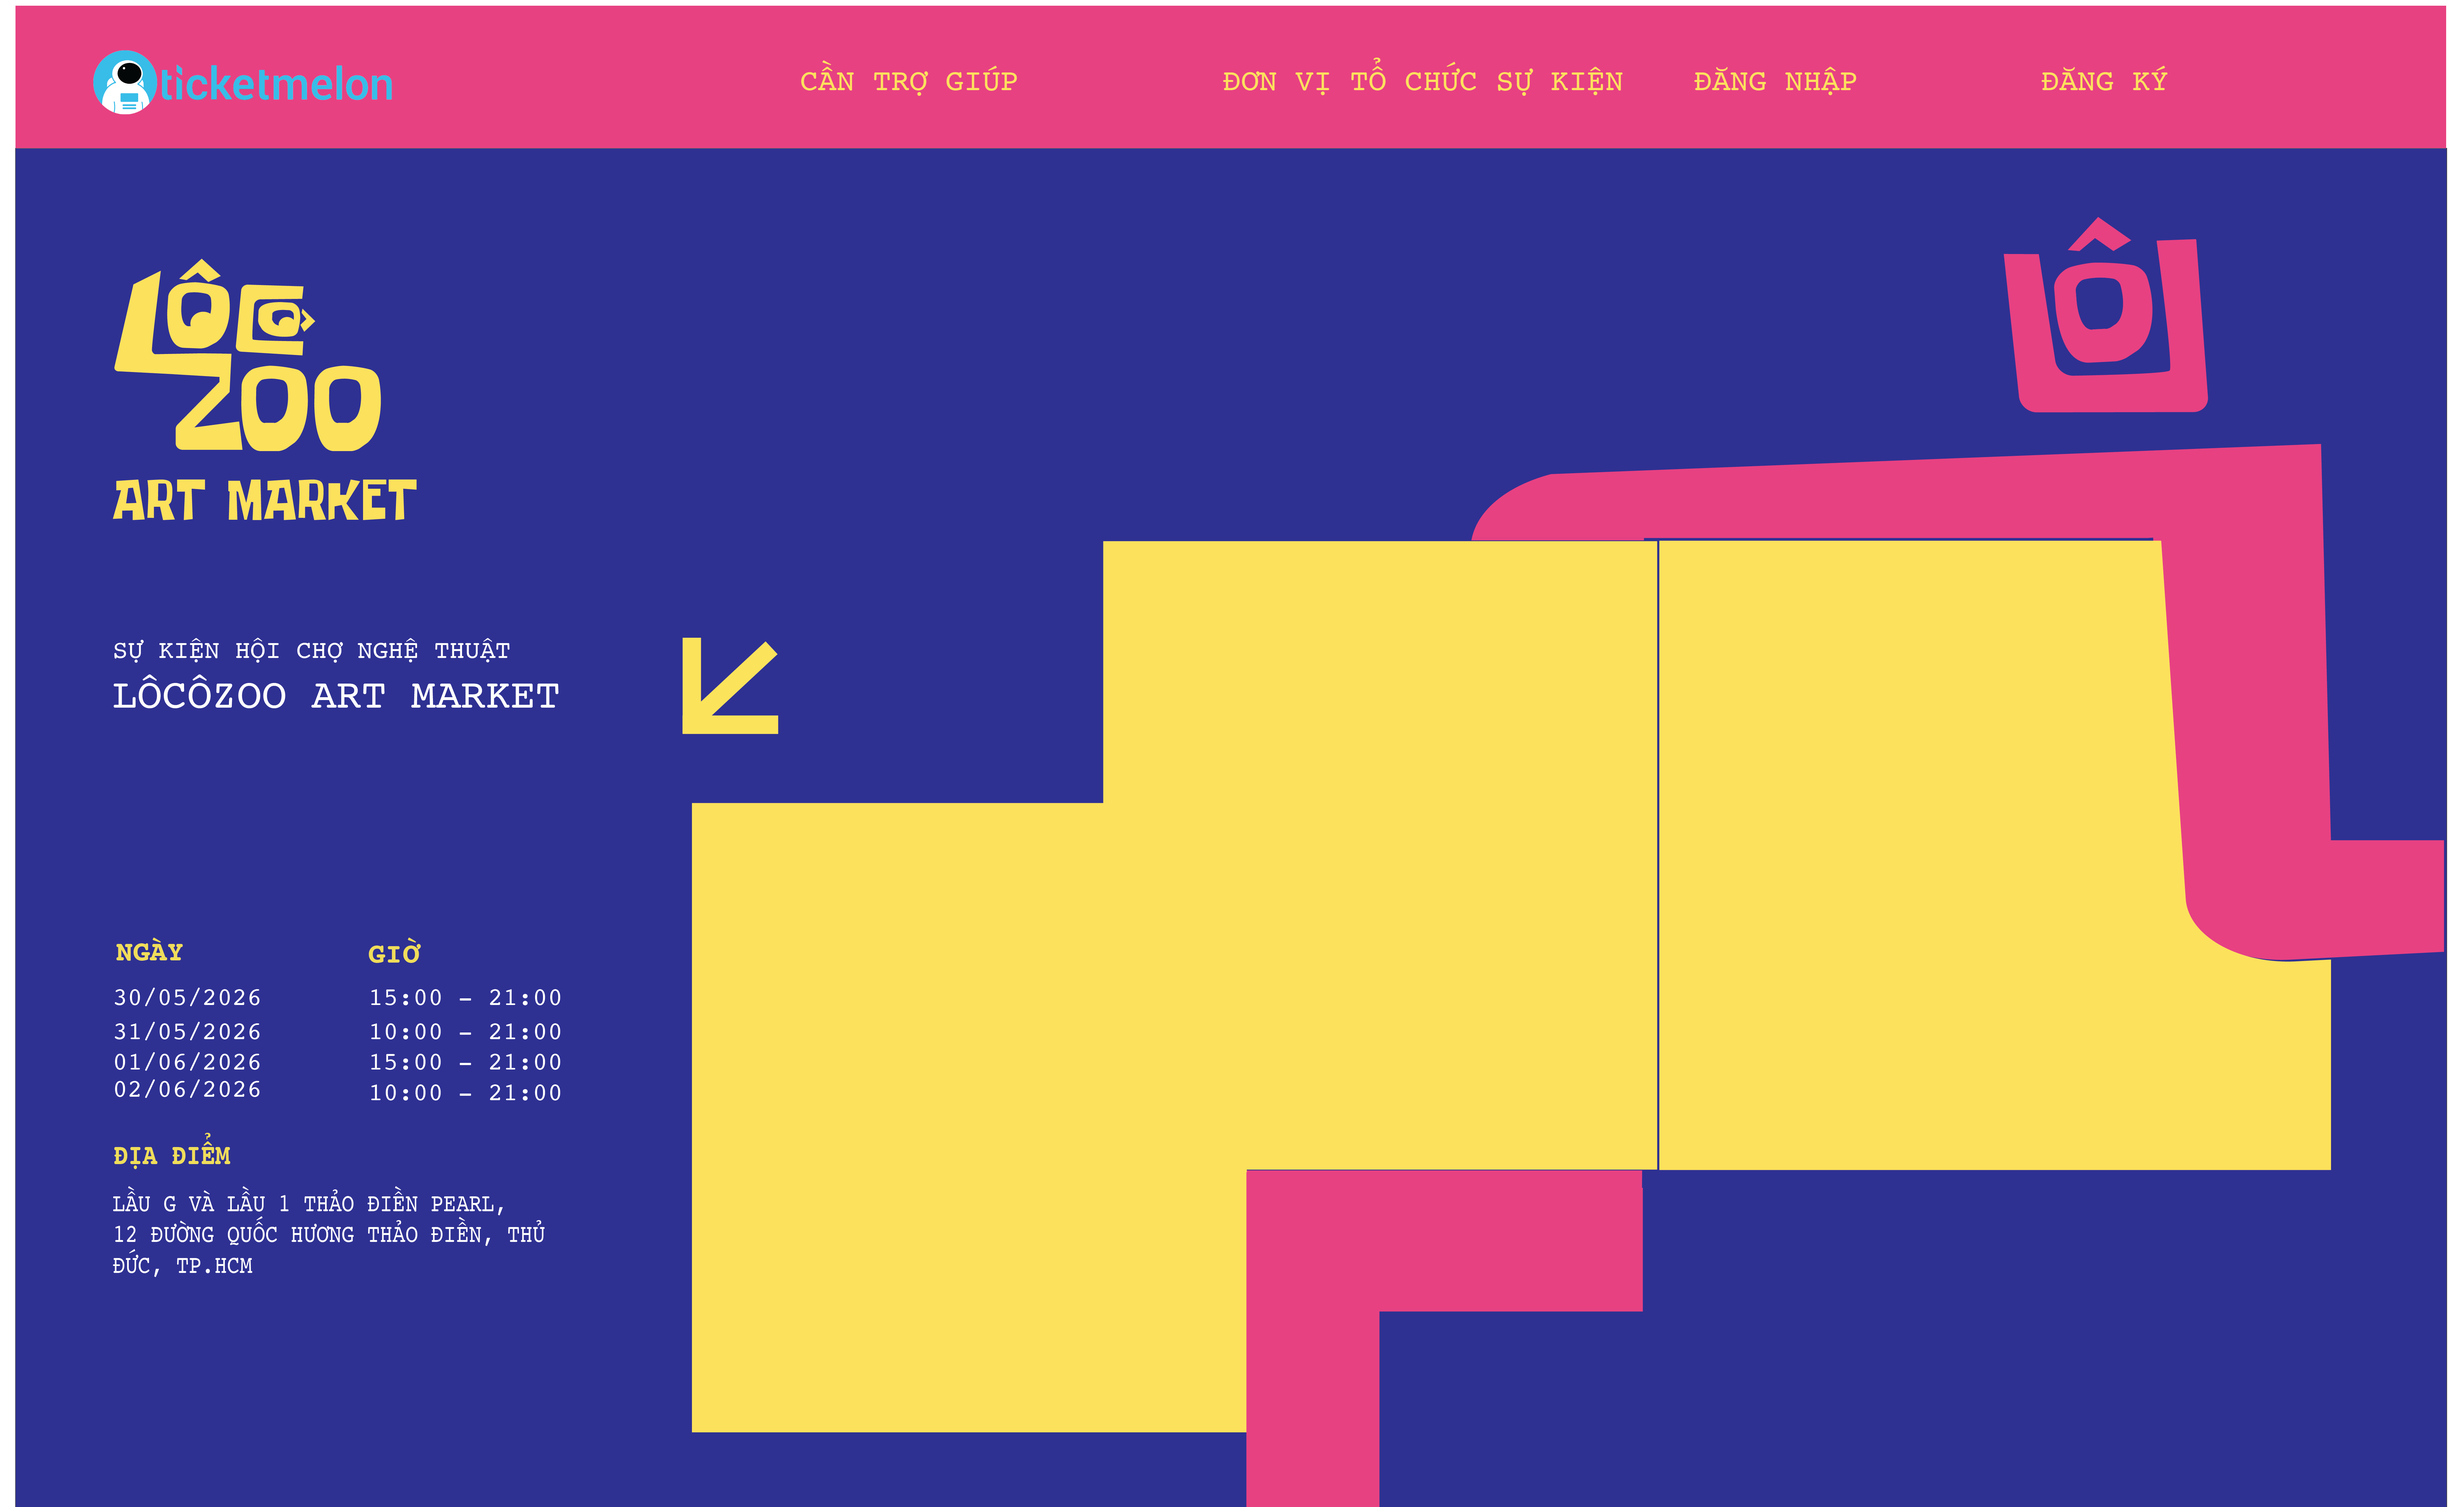
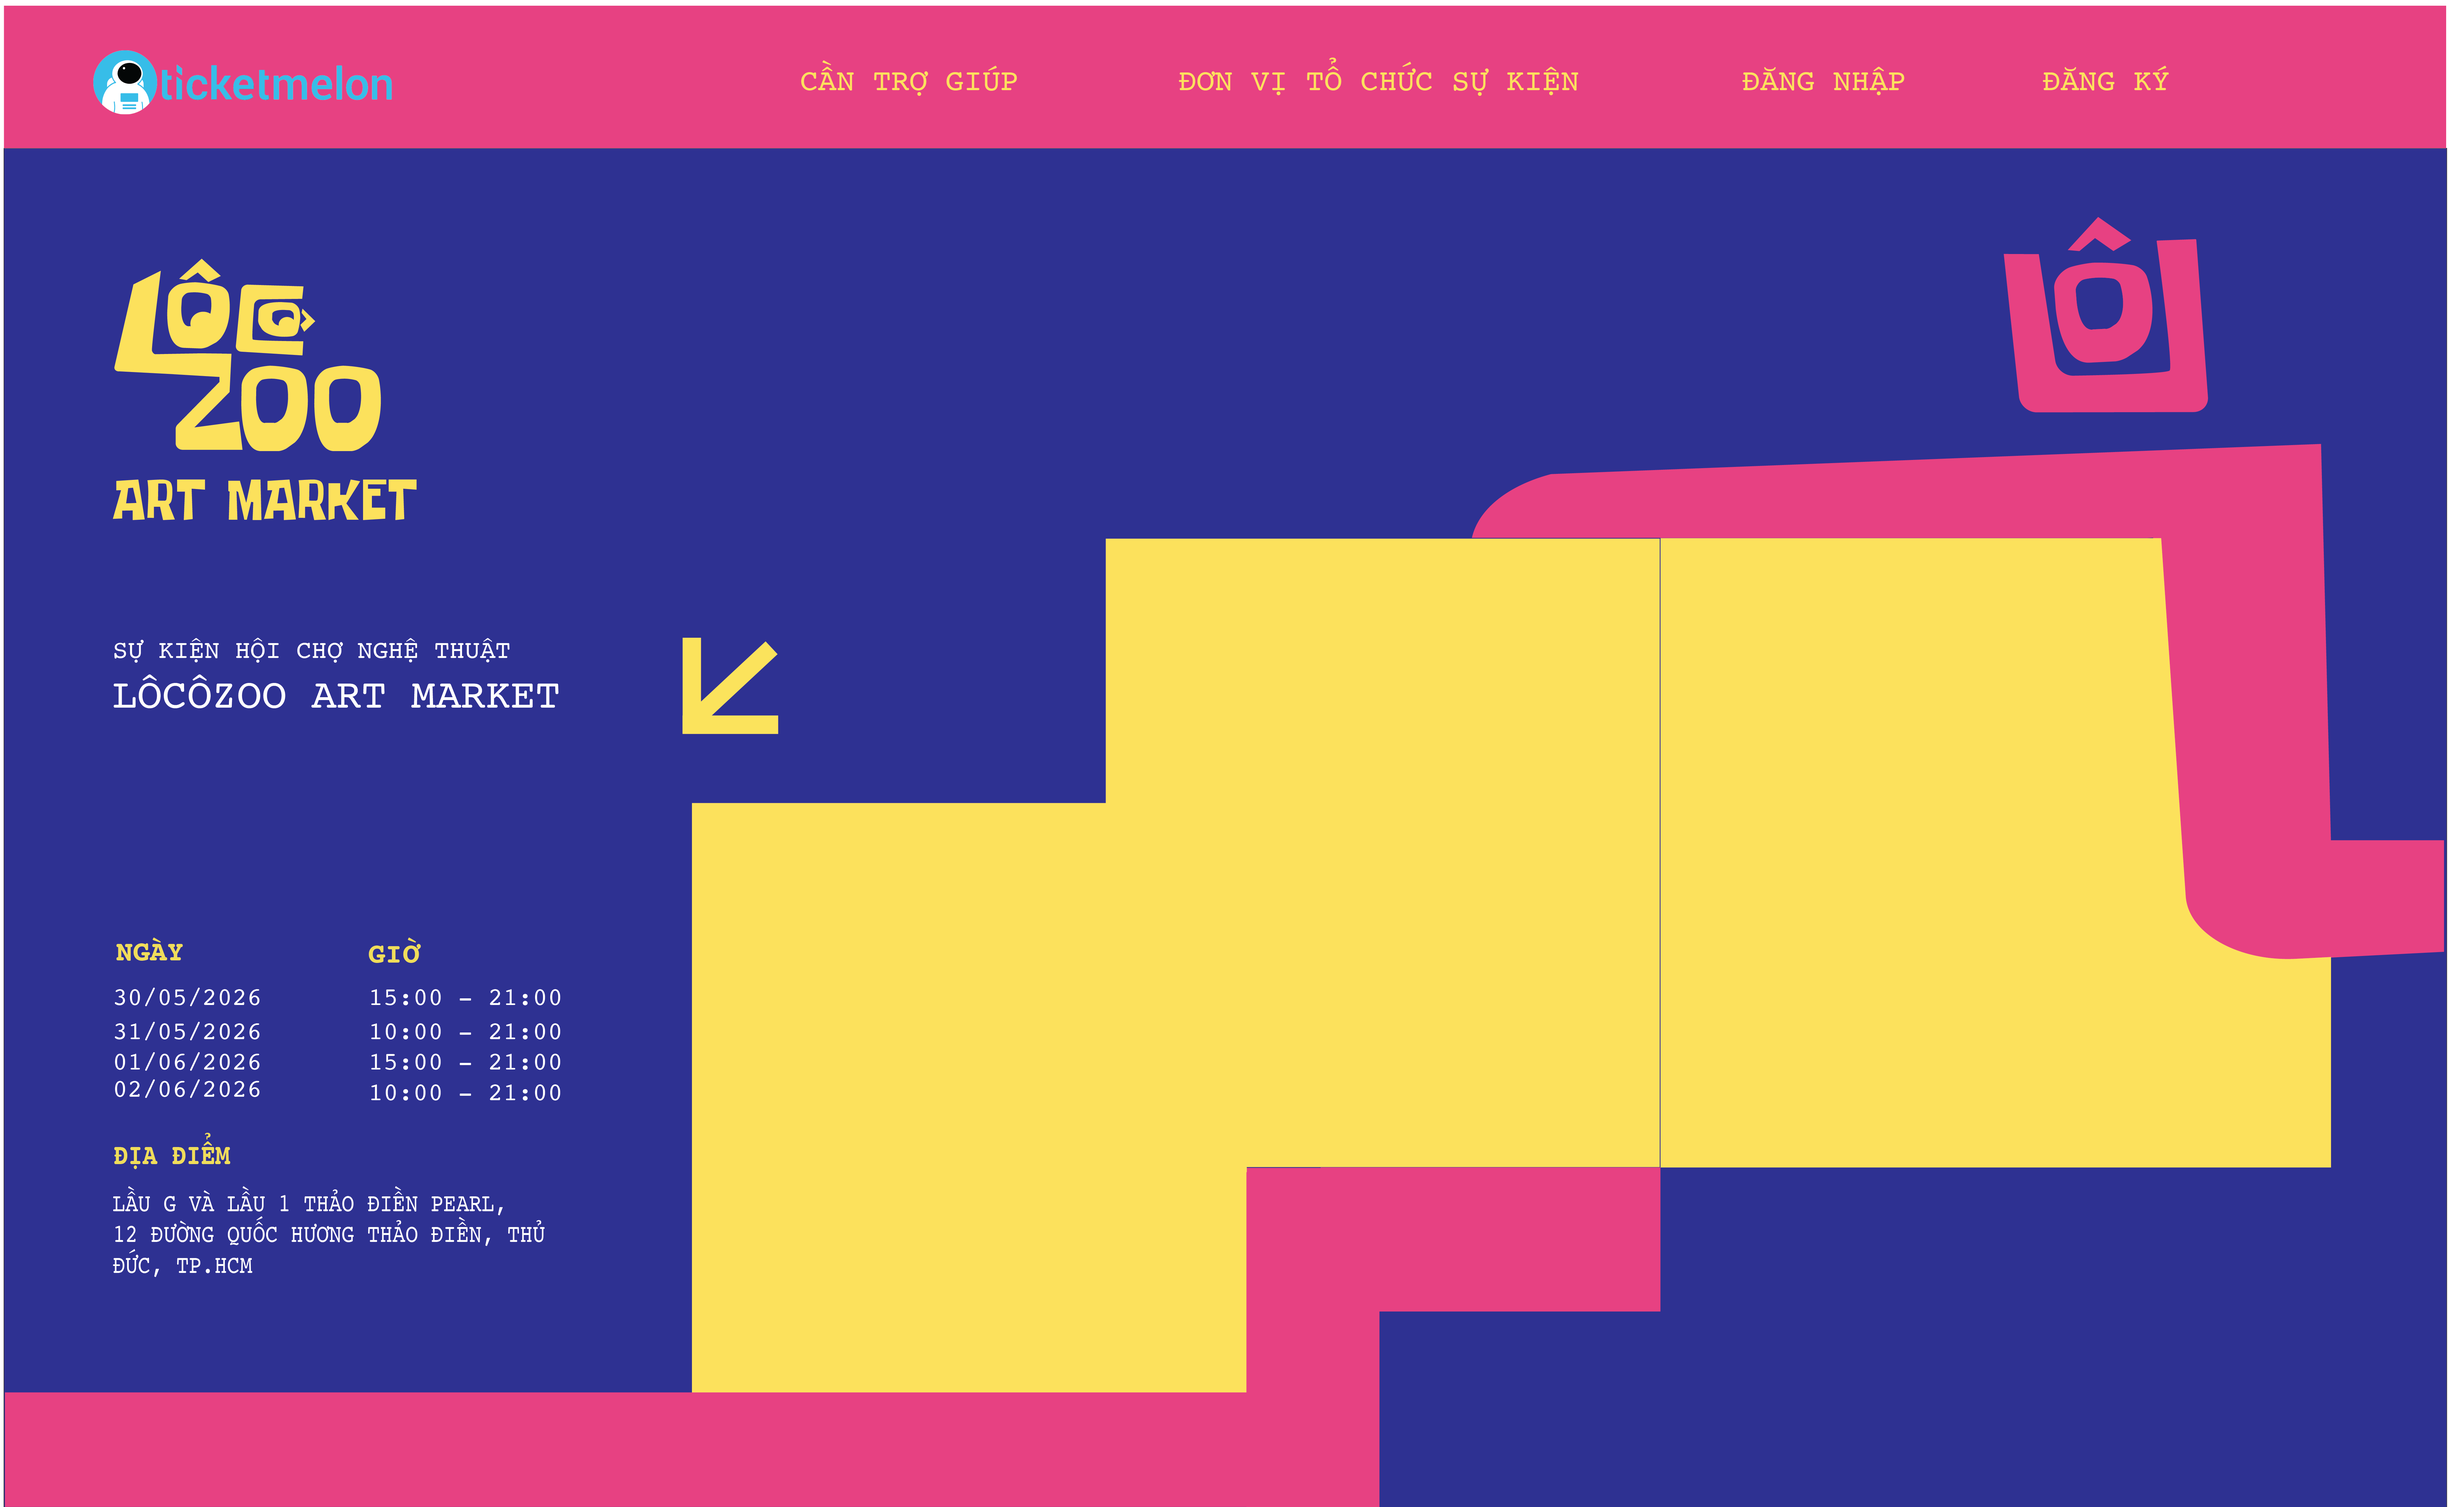
fix size

diff --git a/src/App.css b/src/App.css
@@ -13,8 +13,8 @@ body {
   position: relative;
   width: 100vw;
   aspect-ratio: 16 / 9;
-  background-size: cover;
-  background-position: center top;
+  background-size: 100% 100%;
+  background-position: center;
   background-repeat: no-repeat;
   overflow: hidden;
 }
@@ -43,27 +43,27 @@ body {
 /* ảnh chi tiết */
 .hero-lanyard {
   position: absolute;
-  left: 25%;
-  top: 60%;
-  width: 23%;
+  left: 20%;
+  top: 50%;
+  width: 30%;
   cursor: pointer;
   z-index: 10;
 }
 
 .hero-poster-blue {
   position: absolute;
-  left: 49.7%;
-  top: 40.3%;
-  width: 16.5%;
+  left: 49%;
+  top: 35%;
+  width: 19%;
   cursor: pointer;
   z-index: 11;
 }
 
 .hero-poster-pink {
   position: absolute;
-  left: 69.9%;
-  top: 40.4%;
-  width: 18.2%;
+  left: 69%;
+  top: 35%;
+  width: 19%;
   cursor: pointer;
   z-index: 11;
 }
